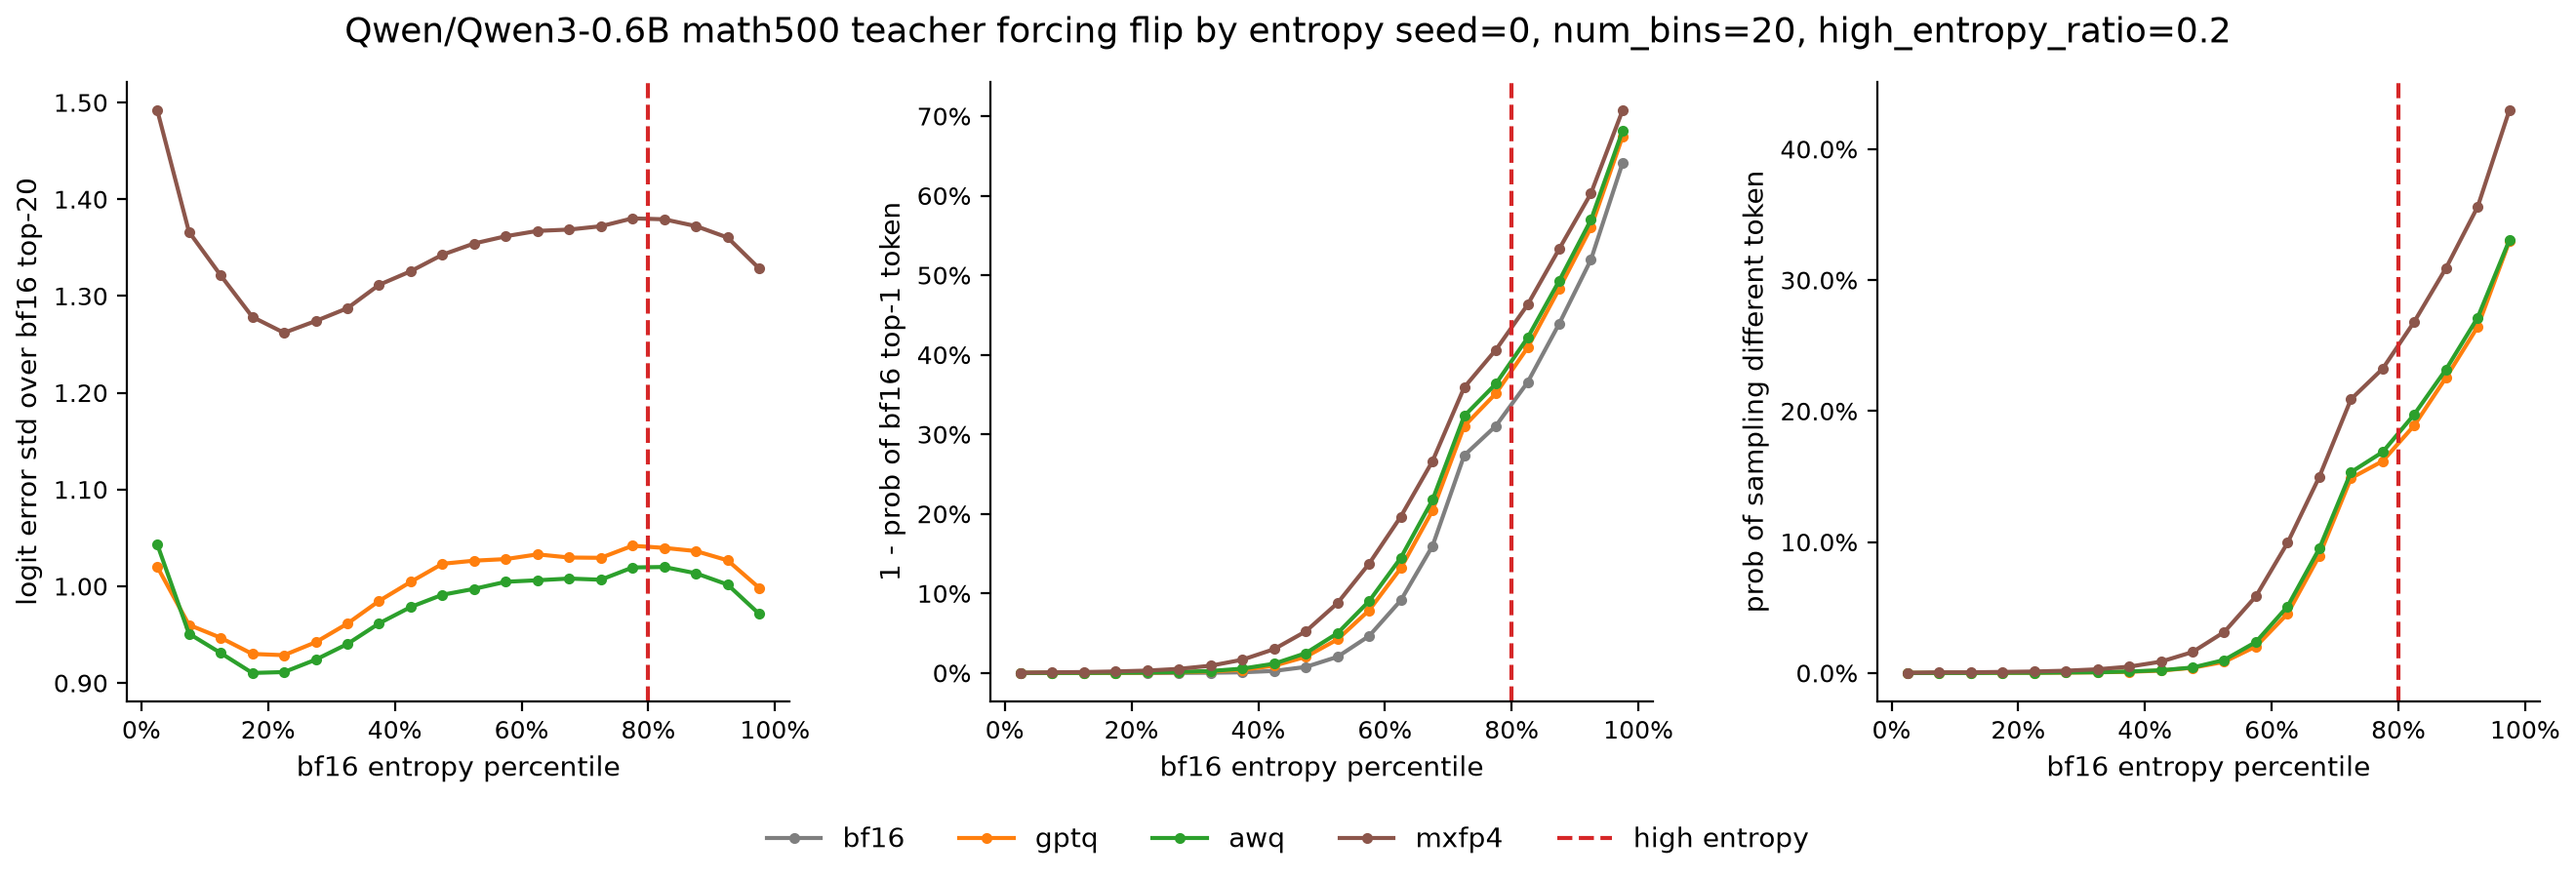
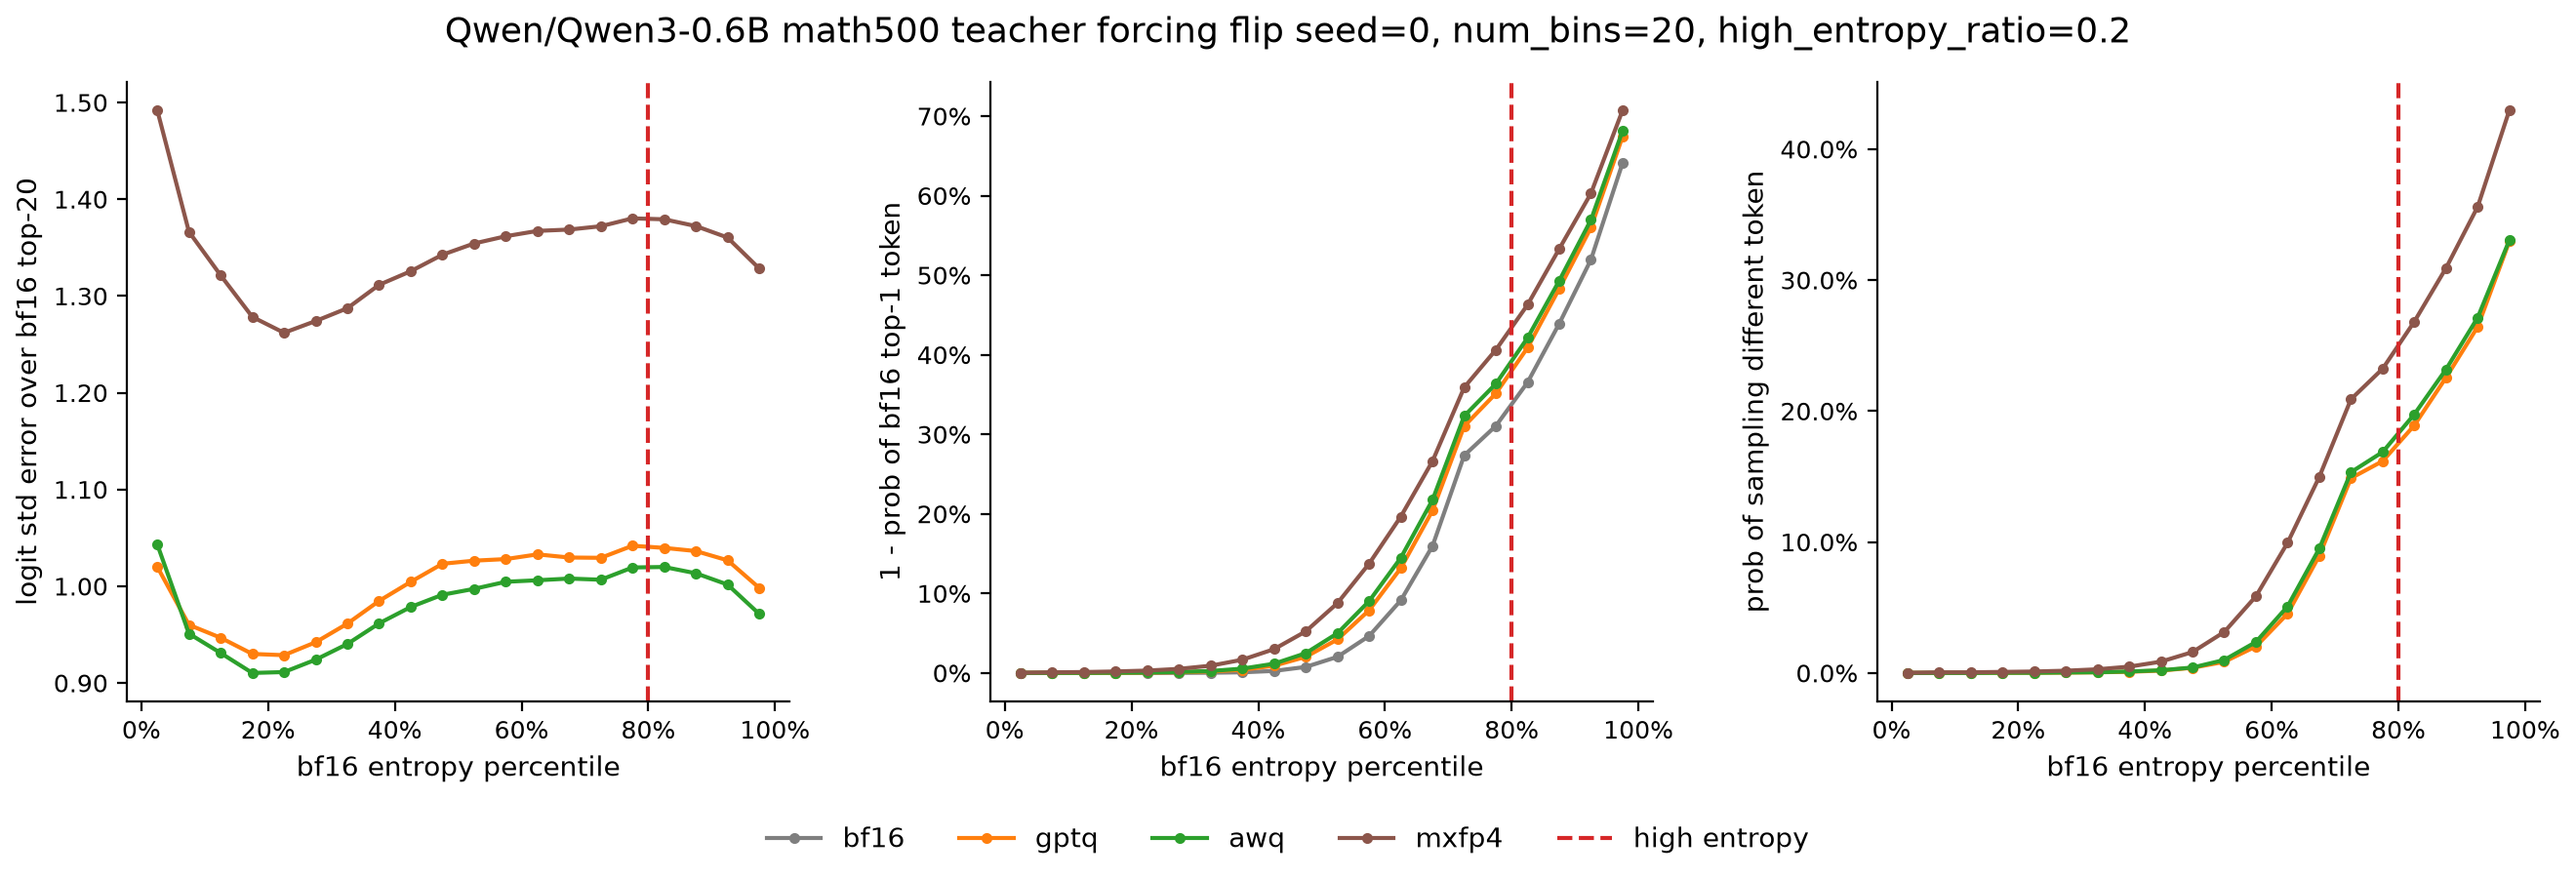
rename variables, paths and labels for consistent naming

Changed region(s): [[0.1242, 0.0, 0.8697, 0.0622], [0.0, 0.4978, 0.0311, 0.5911]]

diff --git a/experiments/sensitivity.py b/experiments/sensitivity.py
@@ -1,3 +1,4 @@
+from collections import defaultdict
 from dataclasses import dataclass
 from statistics import mean
 import time
@@ -15,7 +16,7 @@ from utils.format import format_duration
 from utils.hub import load_result, result_exists, save_result, save_tensors
 from utils.metrics import get_loop_ratio
 from utils.model import TEMPERATURE, TOP_K, TOP_P, get_prompt_ids, get_think_hiddens, get_think_ids, load_model, load_vllm
-from utils.paths import make_sensitivity_path
+from utils.paths import make_bf16_path, make_sensitivity_path
 
 
 @dataclass
@@ -51,9 +52,9 @@ def main() -> None:
     model = load_model(config.model_name)
     tokenizer = AutoTokenizer.from_pretrained(config.model_name)
     problems = load_math500()
-    bf16_result = load_result("math500", f"bf16/{config.model_name}", file_name)
+    bf16_result = load_result("math500", make_bf16_path(config.model_name), file_name)
 
-    # 1) use bf16 reasoning of correctly solved problems only
+    # 1) use only bf16 reasoning on correctly solved problems
     samples = []
     for problem_index, ((prompt, answer), think, correct) in enumerate(zip(problems, bf16_result["thinks"], bf16_result["corrects"])):
         if correct:
@@ -101,19 +102,19 @@ def main() -> None:
                 probs = torch.where(is_excluded, 0, sample_top_probs[position])
                 # multinomial takes unnormalized weights, so no renormalizing after dropping
                 swapped_token_id = sample_top_ids[position][torch.multinomial(probs, 1, generator=generator)].item()
-                swaps.append({"problem_index": problem_index, "answer": answer, "entropy_bin": bin_index, "position": position, "entropy": sample_entropies[position].item(), "original_token_id": original_token_id, "swapped_token_id": swapped_token_id, "prompt_ids": prompt_ids.tolist(), "think_ids": think_ids[:position].tolist()})
+                swaps.append({"problem_index": problem_index, "answer": answer, "entropy_bin": bin_index, "position": position, "entropy": sample_entropies[position].item(), "original_token_id": original_token_id, "swapped_token_id": swapped_token_id, "prompt_ids": prompt_ids.tolist(), "prefix_ids": think_ids[:position].tolist()})
     print(f"swaps {len(swaps)}")
 
     model = load_vllm(config.model_name, config.model_name, config.seed)
     log_time = time.perf_counter()
     # 5) continue from original and swapped token with bf16
     # 380 problems * 5 bins * 2 conditions * 4 continuations = 15200 generation
-    input_ids = [swap["prompt_ids"] + swap["think_ids"] + [swap[f"{condition}_token_id"]] for swap in swaps for condition in ["original", "swapped"]]
-    max_generation_lens = [config.max_generation_len - len(swap["think_ids"]) - 1 for swap in swaps for _ in range(2)]
+    input_ids = [swap["prompt_ids"] + swap["prefix_ids"] + [swap[f"{condition}_token_id"]] for swap in swaps for condition in ["original", "swapped"]]
+    max_generation_lens = [config.max_generation_len - len(swap["prefix_ids"]) - 1 for swap in swaps for _ in range(2)]
     outputs = generate_continuations(model, input_ids, max_generation_lens, config.num_continuations)
 
     # 6) score original and swapped
-    result = {name: [] for name in ["problem_indices", "entropy_bins", "positions", "entropies", "original_token_ids", "swapped_token_ids", "original_corrects", "original_think_lens", "original_loop_ratios", "swapped_corrects", "swapped_think_lens", "swapped_loop_ratios"]}
+    result = defaultdict(list)
     continuation_ids = []
     for swap_index, swap in enumerate(swaps):
         result["problem_indices"].append(swap["problem_index"])
@@ -126,7 +127,7 @@ def main() -> None:
             continuations = outputs[2 * swap_index + offset].outputs
             continuation_ids += [torch.tensor(continuation.token_ids, dtype=torch.int32) for continuation in continuations]
             evaluated = evaluate_math500(continuations, [swap["answer"]] * len(continuations), tokenizer)
-            prefix_ids = swap["think_ids"] + [swap[f"{condition}_token_id"]]
+            prefix_ids = swap["prefix_ids"] + [swap[f"{condition}_token_id"]]
             thinks = [tokenizer.decode(prefix_ids + list(continuation.token_ids)[:think_len], skip_special_tokens=True) for continuation, think_len in zip(continuations, evaluated["think_lens"])]
             result[f"{condition}_corrects"].append(evaluated["corrects"])
             result[f"{condition}_think_lens"].append([len(prefix_ids) + think_len for think_len in evaluated["think_lens"]])

diff --git a/experiments/routing.py b/experiments/routing.py
@@ -49,12 +49,12 @@ class Config:
 
 
 def merge(
-    bf16_path: str,
-    quantized_path: str,
+    bf16_dir: str,
+    quantized_dir: str,
     directory: str,
 ) -> None:
     # vllm can load one model only, so merge bf16 and quantized into one
-    model_config = json.loads((Path(quantized_path) / "config.json").read_text())
+    model_config = json.loads((Path(quantized_dir) / "config.json").read_text())
     num_layers = model_config["num_hidden_layers"]
     model_config["architectures"] = [RoutedQwen3ForCausalLM.__name__]
     model_config["num_hidden_layers"] = 2 * num_layers
@@ -62,9 +62,9 @@ def merge(
     model_config["layer_types"] = model_config["layer_types"] * 2
 
     weights = {}
-    for file in sorted(Path(bf16_path).glob("model*.safetensors")):
+    for file in sorted(Path(bf16_dir).glob("model*.safetensors")):
         weights.update(load_file(file))
-    for file in sorted(Path(quantized_path).glob("model*.safetensors")):
+    for file in sorted(Path(quantized_dir).glob("model*.safetensors")):
         for name, tensor in load_file(file).items():
             match = re.fullmatch(r"model\.layers\.(\d+)\.(.+)", name)
             if match:
@@ -74,7 +74,7 @@ def merge(
 
     # save merged model locally
     (Path(directory) / "config.json").write_text(json.dumps(model_config, indent=2))
-    shutil.copy(Path(bf16_path) / "generation_config.json", Path(directory) / "generation_config.json")
+    shutil.copy(Path(bf16_dir) / "generation_config.json", Path(directory) / "generation_config.json")
     save_file(weights, Path(directory) / "model.safetensors")
     print(f"merged {len(weights)} tensors num_hidden_layers {model_config['num_hidden_layers']}")
 
@@ -202,7 +202,7 @@ def main() -> None:
     log_time = time.perf_counter()
     outputs = generate_vllm(model, [prompt for prompt, _ in problems], config.max_generation_len)
     result = evaluate_math500(outputs, [answer for _, answer in problems], tokenizer)
-    print(f"{target} accuracy {result['accuracy']:.2%} think_len {mean(result['think_lens']):.0f} truncated {mean(result['truncateds']):.2%} time {format_duration(time.perf_counter() - log_time)}")
+    print(f"{target} accuracy {result['accuracy']:.2%} think len {mean(result['think_lens']):.0f} truncated {mean(result['truncateds']):.2%} time {format_duration(time.perf_counter() - log_time)}")
     save_result("routing/math500", target, file_name, result)
 
 

diff --git a/experiments/teacher_forcing.py b/experiments/teacher_forcing.py
@@ -13,7 +13,7 @@ from utils.dataset import load_math500, load_mmlu_redux
 from utils.format import format_duration, format_memory
 from utils.hub import download_model, load_result, result_exists, save_tensors
 from utils.model import TEMPERATURE, TOP_K, TOP_P, get_prompt_ids, get_think_hiddens, get_think_ids, load_model
-from utils.paths import make_quantized_path
+from utils.paths import make_bf16_path, make_quantized_path
 
 
 @dataclass
@@ -47,10 +47,10 @@ def main() -> None:
     entry_name = f"teacher_forcing/{config.dataset}"
     quantized_path = make_quantized_path(config.method, config.model_name, config.num_bits, config.group_size, config.num_samples)
     if result_exists(entry_name, quantized_path, file_name, "safetensors"):
-        print(f"{quantized_path} already computed")
+        print(f"{quantized_path} already evaluated")
         return
-    prompts = [prompt for prompt, _ in (load_math500() if config.dataset == "math500" else load_mmlu_redux(config.num_per_subject))]
-    result = load_result(config.dataset, f"bf16/{config.model_name}", file_name)
+    problems = load_math500() if config.dataset == "math500" else load_mmlu_redux(config.num_per_subject)
+    bf16_result = load_result(config.dataset, make_bf16_path(config.model_name), file_name)
 
     tokenizer = AutoTokenizer.from_pretrained(config.model_name)
     bf16_model = load_model(config.model_name)
@@ -58,7 +58,7 @@ def main() -> None:
 
     # use only bf16 reasoning on correctly solved problems
     samples = []
-    for prompt, think, correct in zip(prompts, result["thinks"], result["corrects"]):
+    for (prompt, _), think, correct in zip(problems, bf16_result["thinks"], bf16_result["corrects"]):
         if correct:
             prompt_ids = get_prompt_ids(tokenizer, prompt)
             think_ids = get_think_ids(tokenizer, think)

diff --git a/plots/teacher_forcing_flip.py b/plots/teacher_forcing_flip.py
@@ -31,7 +31,7 @@ def main() -> None:
         if result_exists("teacher_forcing/math500", quantized_path, file_name, "safetensors"):
             results[method] = load_tensors("teacher_forcing/math500", quantized_path, file_name)
     panels = [
-        ("logit error std over bf16 top-20", lambda result: result["logit_std_error"], None, StrMethodFormatter("{x:.2f}")),
+        ("logit std error over bf16 top-20", lambda result: result["logit_std_error"], None, StrMethodFormatter("{x:.2f}")),
         ("1 - prob of bf16 top-1 token", lambda result: 1 - result["quantized_prob"], lambda result: 1 - result["bf16_prob"], PercentFormatter(1)),
         ("prob of sampling different token", lambda result: result["flip_prob"], None, PercentFormatter(1)),
     ]
@@ -53,7 +53,7 @@ def main() -> None:
         ax.xaxis.set_major_formatter(PercentFormatter(1, decimals=0))
         ax.yaxis.set_major_formatter(formatter)
 
-    fig.suptitle(f"{config.model_name} math500 teacher forcing flip by entropy {file_name}, num_bins={config.num_bins}, high_entropy_ratio={config.high_entropy_ratio:g}")
+    fig.suptitle(f"{config.model_name} math500 teacher forcing flip {file_name}, num_bins={config.num_bins}, high_entropy_ratio={config.high_entropy_ratio:g}")
     handles = [Line2D([], [], color=METHOD_COLORS[method], marker="o", markersize=3, label=method) for method in ["bf16", *results]]
     handles.append(Line2D([], [], color=ENTROPY_COLORS["high entropy"], linestyle="--", label="high entropy"))
     fig.legend(handles=handles, loc="outside lower center", ncol=len(handles))

diff --git a/plots/routing.py b/plots/routing.py
@@ -10,10 +10,10 @@ from simple_parsing import parse
 from utils.dataset import load_math500
 from utils.hub import load_result, result_exists
 from utils.metrics import get_intermediate_answer_ratio, get_length_ratio, get_loop_ratio
-from utils.paths import make_quantized_path, make_routing_path, make_target_path
-from utils.plot import METHOD_COLORS, fit_bar_width, get_figsize, get_panel_width, plot_bars, save_figure
+from utils.paths import make_bf16_path, make_quantized_path, make_routing_path
+from utils.plot import ENTROPY_COLORS, METHOD_COLORS, fit_bar_width, get_figsize, get_panel_width, plot_bars, save_figure
 
-ROUTE_POSITION_COLORS = {"high": "tab:red", "low": "tab:blue", "random": "tab:purple"}
+ROUTE_POSITION_COLORS = {"high": ENTROPY_COLORS["high entropy"], "low": ENTROPY_COLORS["low entropy"], "random": "tab:purple"}
 ROUTE_POSITION_LABELS = {"high": "high entropy", "low": "low entropy", "random": "random"}
 ROUTE_RATIOS = [0.1, 0.2, 0.8]
 
@@ -30,7 +30,7 @@ class Config:
 def main() -> None:
     config = parse(Config)
     file_name = f"seed={config.seed}"
-    bf16_result = load_result("math500", make_target_path("bf16", config.model_name, config.num_bits, config.group_size, config.num_samples), file_name)
+    bf16_result = load_result("math500", make_bf16_path(config.model_name), file_name)
     answers = [answer for _, answer in load_math500()]
     panels = [
         ("accuracy", lambda result: result["accuracy"], "{x:.1%}"),

diff --git a/plots/math500_words.py b/plots/math500_words.py
@@ -8,7 +8,7 @@ from simple_parsing import parse
 
 from utils.hub import load_result, result_exists
 from utils.metrics import get_words
-from utils.paths import make_target_path
+from utils.paths import make_bf16_path, make_target_path
 from utils.plot import METHOD_COLORS, get_words_figsize, plot_words, save_figure
 
 
@@ -33,7 +33,7 @@ def count_word_rates(
 def main() -> None:
     config = parse(Config)
     file_name = f"seed={config.seed}"
-    bf16_result = load_result("math500", make_target_path("bf16", config.model_name, config.num_bits, config.group_size, config.num_samples), file_name)
+    bf16_result = load_result("math500", make_bf16_path(config.model_name), file_name)
     results = {}
     for method in ["gptq", "awq", "mxfp4"]:
         target = make_target_path(method, config.model_name, config.num_bits, config.group_size, config.num_samples)

diff --git a/utils/paths.py b/utils/paths.py
@@ -7,6 +7,12 @@ def make_numina_path(
     return f"numina/{target}/num_samples={num_samples},max_generation_len={max_generation_len},seed={seed}"
 
 
+def make_bf16_path(
+    model_name: str,
+) -> str:
+    return f"bf16/{model_name}"
+
+
 def make_mxfp4_path(
     model_name: str,
 ) -> str:
@@ -33,7 +39,7 @@ def make_target_path(
     num_samples: int,
 ) -> str:
     if method == "bf16":
-        return f"bf16/{model_name}"
+        return make_bf16_path(model_name)
     return make_quantized_path(method, model_name, num_bits, group_size, num_samples)
 
 
@@ -50,4 +56,4 @@ def make_sensitivity_path(
     num_bins: int,
     num_continuations: int,
 ) -> str:
-    return f"bf16/{model_name}/num_bins={num_bins},num_continuations={num_continuations}"
+    return f"{make_bf16_path(model_name)}/num_bins={num_bins},num_continuations={num_continuations}"

diff --git a/benchmarks/mmlu_redux.py b/benchmarks/mmlu_redux.py
@@ -42,7 +42,7 @@ def main() -> None:
     log_time = time.perf_counter()
     outputs = generate_vllm(model, [prompt for prompt, _ in problems], config.max_generation_len)
     result = evaluate_mmlu_redux(outputs, [answer for _, answer in problems], tokenizer)
-    print(f"{target} accuracy {result['accuracy']:.2%} think_len {mean(result['think_lens']):.0f} truncated {mean(result['truncateds']):.2%} time {format_duration(time.perf_counter() - log_time)}")
+    print(f"{target} accuracy {result['accuracy']:.2%} think len {mean(result['think_lens']):.0f} truncated {mean(result['truncateds']):.2%} time {format_duration(time.perf_counter() - log_time)}")
     save_result("mmlu_redux", target, file_name, result)
 
 

diff --git a/benchmarks/math500.py b/benchmarks/math500.py
@@ -41,7 +41,7 @@ def main() -> None:
     log_time = time.perf_counter()
     outputs = generate_vllm(model, [prompt for prompt, _ in problems], config.max_generation_len)
     result = evaluate_math500(outputs, [answer for _, answer in problems], tokenizer)
-    print(f"{target} accuracy {result['accuracy']:.2%} think_len {mean(result['think_lens']):.0f} truncated {mean(result['truncateds']):.2%} time {format_duration(time.perf_counter() - log_time)}")
+    print(f"{target} accuracy {result['accuracy']:.2%} think len {mean(result['think_lens']):.0f} truncated {mean(result['truncateds']):.2%} time {format_duration(time.perf_counter() - log_time)}")
     save_result("math500", target, file_name, result)
 
 

diff --git a/calibration/numina.py b/calibration/numina.py
@@ -27,7 +27,7 @@ def main() -> None:
 
     log_time = time.perf_counter()
     outputs = generate_vllm(model, prompts, config.max_generation_len)
-    print(f"generated {len(outputs)} output_len {mean(len(output.token_ids) for output in outputs):.0f} time {format_duration(time.perf_counter() - log_time)}")
+    print(f"generated {len(outputs)} output len {mean(len(output.token_ids) for output in outputs):.0f} time {format_duration(time.perf_counter() - log_time)}")
 
     input_ids = []
     for prompt, output in zip(prompts, outputs):
